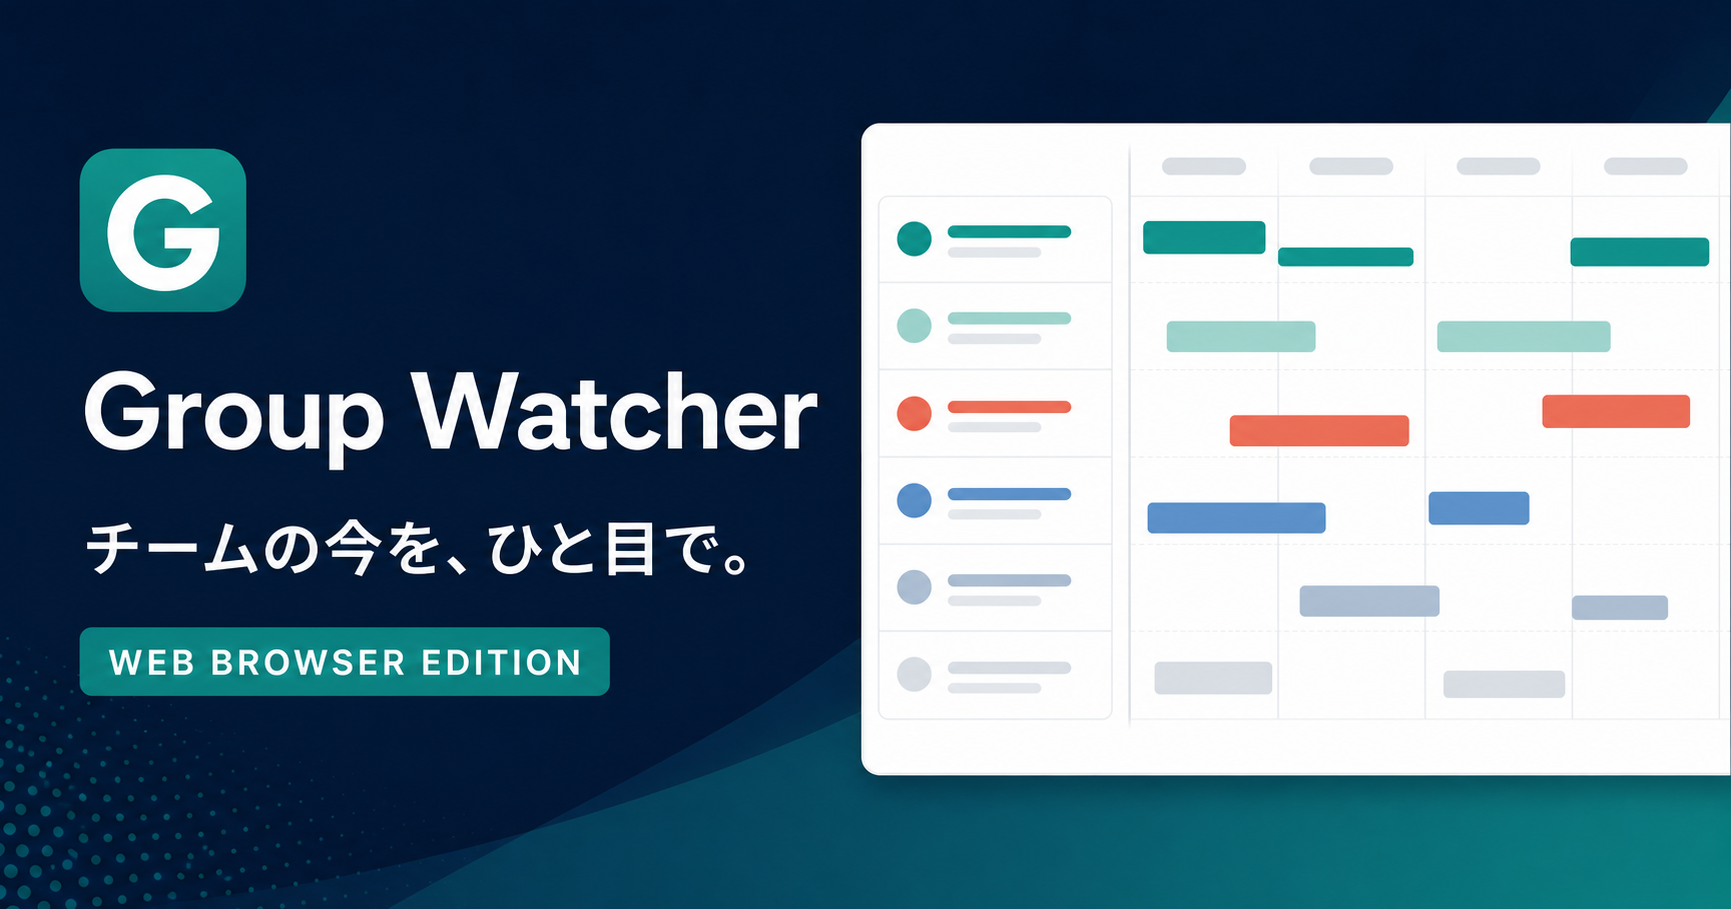
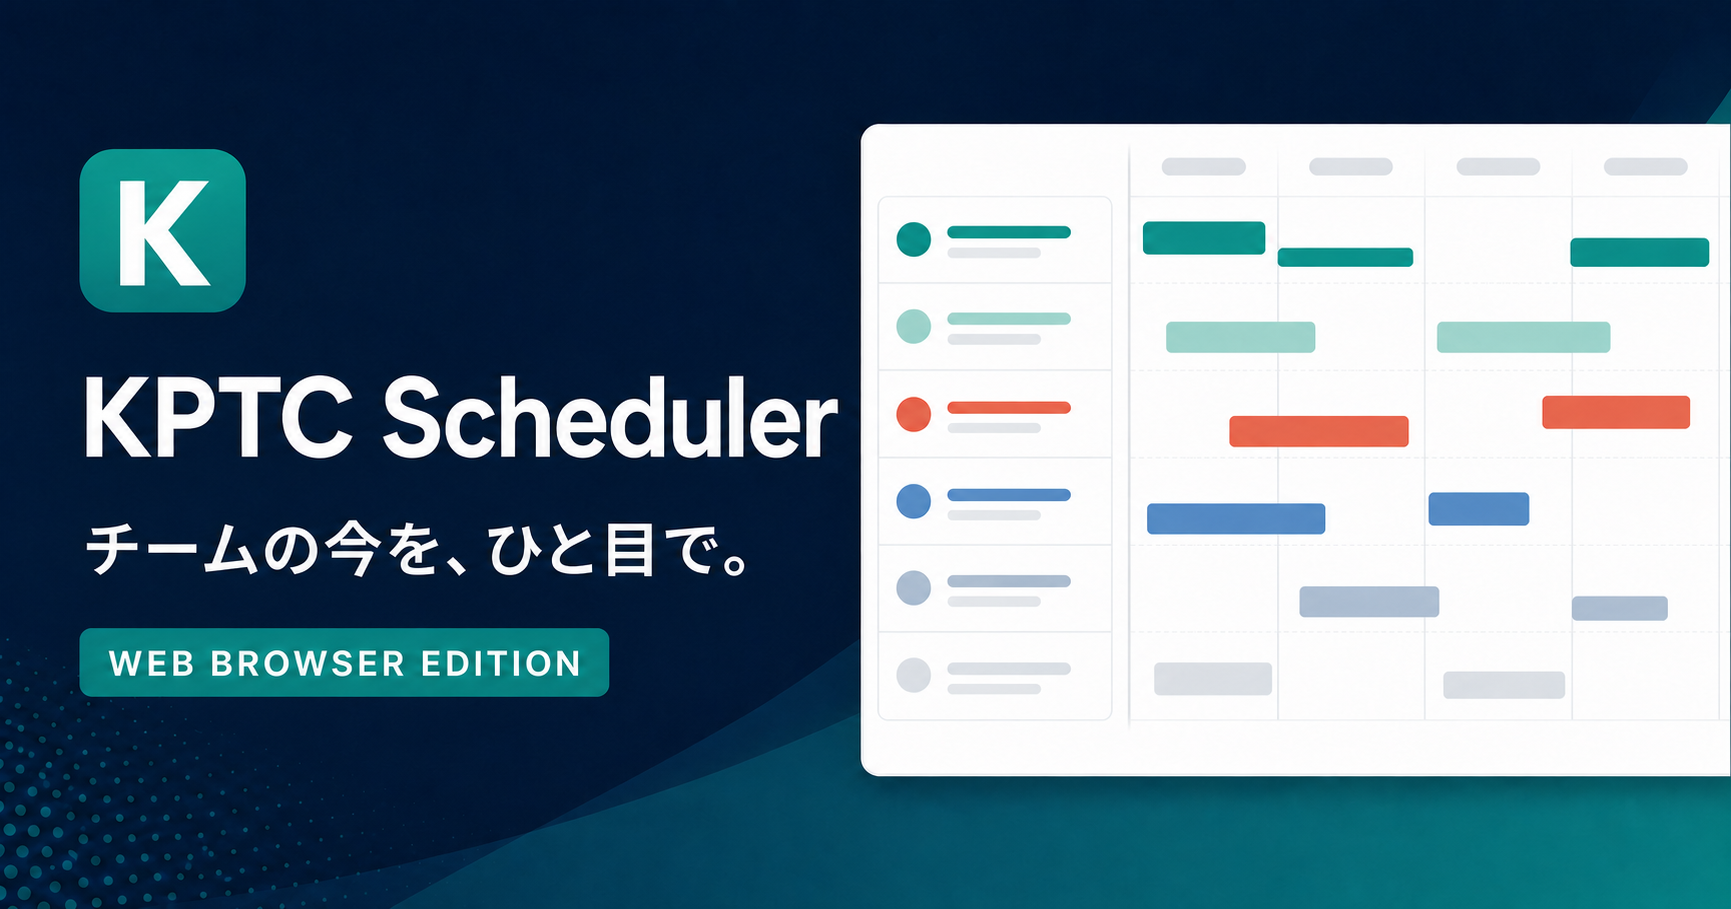
アプリ名をKPTC Schedulerへ変更

diff --git a/app/reservations-page.tsx b/app/reservations-page.tsx
@@ -117,7 +117,7 @@ export default function ReservationsPage() {
   const months = useMemo(() => Array.from({ length: 3 }, (_, index) => addMonths(new Date(), index)), []);
 
   useEffect(() => {
-    document.title = `${room.name} 空き状況 | Group Watcher`;
+    document.title = `${room.name} 空き状況 | KPTC Scheduler`;
     groupWatcherApi.bootstrap().then((payload) => {
       setSchedules(payload.state.schedules);
       const dbRooms = payload.state.members.filter((member) => roomIds.includes(member.id));
@@ -135,7 +135,7 @@ export default function ReservationsPage() {
       <section className="reservation-board">
         <header className="reservation-header">
           <span className="room-emblem">{room.initials}</span>
-          <div><small>GROUP WATCHER / LAB AVAILABILITY</small><h1>{room.name} 空き状況</h1>{roomId === "m8" && <p className="equipment-note">(入力インパルス試験機、静電気試験機、サージイミュニティ試験機、FTB試験機、低周波EMC試験機)</p>}</div>
+          <div><small>KPTC SCHEDULER / LAB AVAILABILITY</small><h1>{room.name} 空き状況</h1>{roomId === "m8" && <p className="equipment-note">(入力インパルス試験機、静電気試験機、サージイミュニティ試験機、FTB試験機、低周波EMC試験機)</p>}</div>
           <time>更新：{new Date().toLocaleString("ja-JP", { year: "numeric", month: "numeric", day: "numeric", hour: "2-digit", minute: "2-digit" })}</time>
         </header>
 

diff --git a/app/layout.tsx b/app/layout.tsx
@@ -26,19 +26,19 @@ export async function generateMetadata(): Promise<Metadata> {
   const origin = `${protocol}://${host}`;
 
   return {
-    title: "Group Watcher｜チームの予定と行き先をひと目で",
-    description: "予定共有、在席・行き先、伝言メモをひとつにまとめた Group Watcher のWEBブラウザ版です。",
-    applicationName: "Group Watcher",
+    title: "KPTC Scheduler｜チームの予定と行き先をひと目で",
+    description: "予定共有、在席・行き先、伝言メモをひとつにまとめた KPTC Scheduler のWEBブラウザ版です。",
+    applicationName: "KPTC Scheduler",
     openGraph: {
-      title: "Group Watcher",
+      title: "KPTC Scheduler",
       description: "チームの今を、ひと目で。予定・行き先・伝言をまとめて共有。",
       type: "website",
       locale: "ja_JP",
-      images: [{ url: new URL("/og.png", origin).toString(), width: 1200, height: 630, alt: "Group Watcher WEBブラウザ版" }],
+      images: [{ url: new URL("/og.png", origin).toString(), width: 1200, height: 630, alt: "KPTC Scheduler WEBブラウザ版" }],
     },
     twitter: {
       card: "summary_large_image",
-      title: "Group Watcher",
+      title: "KPTC Scheduler",
       description: "チームの今を、ひと目で。",
       images: [new URL("/og.png", origin).toString()],
     },

diff --git a/sakura/index.html b/sakura/index.html
@@ -4,12 +4,12 @@
     <meta charset="UTF-8" />
     <meta name="viewport" content="width=device-width, initial-scale=1.0" />
     <meta name="theme-color" content="#0c2138" />
-    <meta name="description" content="予定共有、在席・行き先、伝言メモをひとつにまとめた Group Watcher のWEBブラウザ版です。" />
-    <meta property="og:title" content="Group Watcher" />
+    <meta name="description" content="予定共有、在席・行き先、伝言メモをひとつにまとめた KPTC Scheduler のWEBブラウザ版です。" />
+    <meta property="og:title" content="KPTC Scheduler" />
     <meta property="og:description" content="チームの今を、ひと目で。予定・行き先・伝言をまとめて共有。" />
     <meta property="og:type" content="website" />
     <meta property="og:image" content="./og.png" />
-    <title>Group Watcher｜チームの予定と行き先をひと目で</title>
+    <title>KPTC Scheduler｜チームの予定と行き先をひと目で</title>
   </head>
   <body>
     <div id="root"></div>

diff --git a/sakura/reservations.html b/sakura/reservations.html
@@ -3,9 +3,9 @@
   <head>
     <meta charset="UTF-8" />
     <meta name="viewport" content="width=device-width, initial-scale=1.0" />
-    <meta name="description" content="Group Watcherの試験室空き状況を3か月分表示します。" />
+    <meta name="description" content="KPTC Schedulerの試験室空き状況を3か月分表示します。" />
     <meta name="theme-color" content="#0647d9" />
-    <title>試験室 空き状況 | Group Watcher</title>
+    <title>試験室 空き状況 | KPTC Scheduler</title>
   </head>
   <body><div id="root"></div><script type="module" src="./reservations.tsx"></script></body>
 </html>

diff --git a/app/page.tsx b/app/page.tsx
@@ -147,9 +147,9 @@ function StatusDot({ status }: { status: PresenceState }) {
 
 function Logo() {
   return (
-    <div className="brand-lockup" aria-label="Group Watcher">
-      <span className="brand-mark"><span>G</span></span>
-      <span className="brand-copy"><b>Group Watcher</b><small>チームの今を、ひと目で。</small></span>
+    <div className="brand-lockup" aria-label="KPTC Scheduler">
+      <span className="brand-mark"><span>K</span></span>
+      <span className="brand-copy"><b>KPTC Scheduler</b><small>チームの今を、ひと目で。</small></span>
     </div>
   );
 }

diff --git a/README.md b/README.md
@@ -1,6 +1,6 @@
-# Group Watcher WEB
+# KPTC Scheduler
 
-Group Watcher 3.65 の主要機能を、PC・タブレット・スマートフォンから利用できるよう再設計したWEBブラウザ版です。
+Group Watcher 3.65 の主要機能を、PC・タブレット・スマートフォンから利用できるよう「KPTC Scheduler」として再設計したWEBブラウザ版です。
 
 現在はUI確認用のデモデータで動作します。さくらレンタルサーバー上のPHP APIとSQLiteへデータを保存するため、別端末・別ブラウザ間でも編集内容が共有されます。ログインは利用者を選択するデモ認証で、本番の認証API受領後に差し替えます。
 
